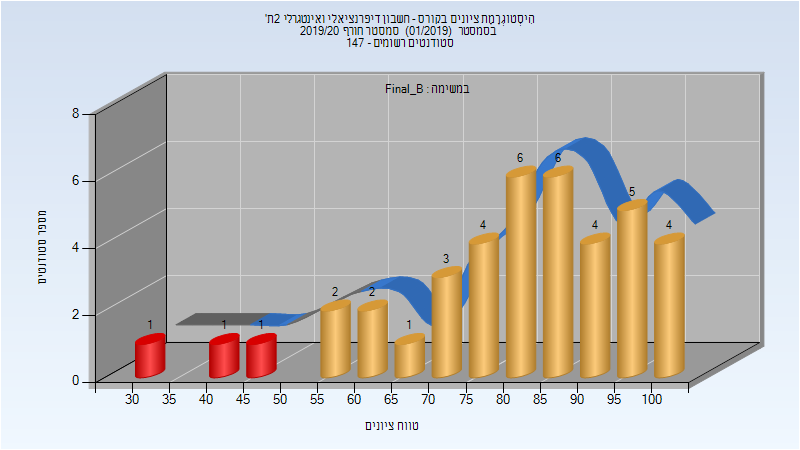
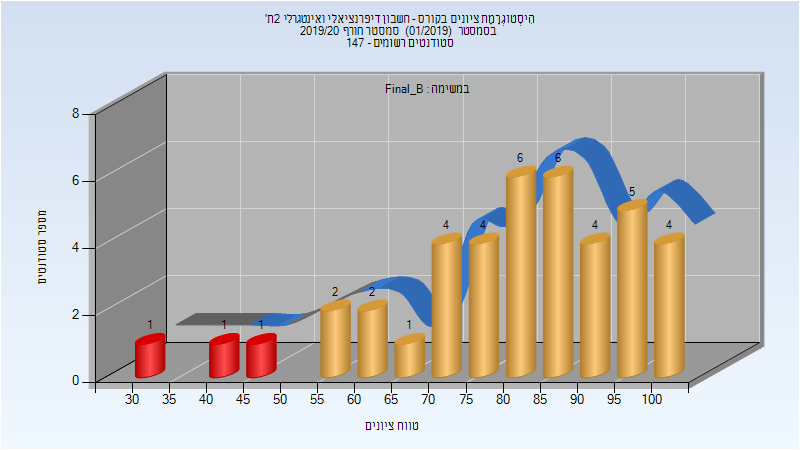
Deploy michael-maltsev/technion-histograms to github.com/michael-maltsev/technion-histograms.git:gh-pages

Changed region(s): [[0.5312, 0.4667, 0.6562, 0.6222], [0.5625, 0.6533, 0.5938, 0.6844]]

diff --git a/044252/index.html b/044252/index.html
@@ -889,13 +889,13 @@
 </thead>
 <tbody>
 <tr>
-<td>510</td>
-<td>405/105</td>
-<td>79</td>
-<td>25</td>
+<td>565</td>
+<td>512/53</td>
+<td>91</td>
+<td>2</td>
 <td>100</td>
-<td>72.535</td>
-<td>78</td>
+<td>78.634</td>
+<td>82</td>
 </tr>
 </tbody>
 </table>
@@ -919,6 +919,84 @@
 <tr>
 <td>הדר אלעד</td>
 <td>מתרגל - עם הרשאות מרצה אחראי</td>
+</tr>
+</tbody>
+</table>
+<h3>מבחן מועד א'</h3>
+<p><img src="201903/Exam_A.png" alt="201903 Exam_A" /></p>
+<table>
+<thead>
+<tr>
+<th>סטודנטים</th>
+<th>עברו/נכשלו</th>
+<th>אחוז עוברים</th>
+<th>ציון מינימלי</th>
+<th>ציון מקסימלי</th>
+<th>ממוצע</th>
+<th>חציון</th>
+</tr>
+</thead>
+<tbody>
+<tr>
+<td>28</td>
+<td>26/2</td>
+<td>93</td>
+<td>30</td>
+<td>100</td>
+<td>71.893</td>
+<td>70.5</td>
+</tr>
+</tbody>
+</table>
+<h3>סופי מועד א'</h3>
+<p><img src="201903/Final_A.png" alt="201903 Final_A" /></p>
+<table>
+<thead>
+<tr>
+<th>סטודנטים</th>
+<th>עברו/נכשלו</th>
+<th>אחוז עוברים</th>
+<th>ציון מינימלי</th>
+<th>ציון מקסימלי</th>
+<th>ממוצע</th>
+<th>חציון</th>
+</tr>
+</thead>
+<tbody>
+<tr>
+<td>28</td>
+<td>26/2</td>
+<td>93</td>
+<td>32</td>
+<td>100</td>
+<td>83.857</td>
+<td>85.5</td>
+</tr>
+</tbody>
+</table>
+<h3>סופי</h3>
+<p><img src="201903/Finals.png" alt="201903 Finals" /></p>
+<table>
+<thead>
+<tr>
+<th>סטודנטים</th>
+<th>עברו/נכשלו</th>
+<th>אחוז עוברים</th>
+<th>ציון מינימלי</th>
+<th>ציון מקסימלי</th>
+<th>ממוצע</th>
+<th>חציון</th>
+</tr>
+</thead>
+<tbody>
+<tr>
+<td>28</td>
+<td>26/2</td>
+<td>93</td>
+<td>32</td>
+<td>100</td>
+<td>83.857</td>
+<td>85.5</td>
 </tr>
 </tbody>
 </table>

diff --git a/104013/index.html b/104013/index.html
@@ -1961,13 +1961,13 @@
 </thead>
 <tbody>
 <tr>
-<td>40</td>
-<td>37/3</td>
-<td>92</td>
+<td>41</td>
+<td>38/3</td>
+<td>93</td>
 <td>32</td>
 <td>100</td>
-<td>80.425</td>
-<td>82.5</td>
+<td>80.268</td>
+<td>82</td>
 </tr>
 </tbody>
 </table>

diff --git a/044252/README.md b/044252/README.md
@@ -273,7 +273,7 @@
 
 | סטודנטים | עברו/נכשלו | אחוז עוברים | ציון מינימלי | ציון מקסימלי | ממוצע | חציון |
 | ---- | ---- | ---- | ---- | ---- | ---- | ---- |
-| 510 | 405/105 | 79 | 25 | 100 | 72.535 | 78 |
+| 565 | 512/53 | 91 | 2 | 100 | 78.634 | 82 |
 
 ## קיץ 2020
 
@@ -282,4 +282,28 @@
 | קוטינסקי שחר | מרצה - אחראי מקצוע |
 | אליהו עדי | מתרגל - עם הרשאות מרצה אחראי |
 | הדר אלעד | מתרגל - עם הרשאות מרצה אחראי |
+
+### מבחן מועד א'
+
+![201903 Exam_A](201903/Exam_A.png)
+
+| סטודנטים | עברו/נכשלו | אחוז עוברים | ציון מינימלי | ציון מקסימלי | ממוצע | חציון |
+| ---- | ---- | ---- | ---- | ---- | ---- | ---- |
+| 28 | 26/2 | 93 | 30 | 100 | 71.893 | 70.5 |
+
+### סופי מועד א'
+
+![201903 Final_A](201903/Final_A.png)
+
+| סטודנטים | עברו/נכשלו | אחוז עוברים | ציון מינימלי | ציון מקסימלי | ממוצע | חציון |
+| ---- | ---- | ---- | ---- | ---- | ---- | ---- |
+| 28 | 26/2 | 93 | 32 | 100 | 83.857 | 85.5 |
+
+### סופי
+
+![201903 Finals](201903/Finals.png)
+
+| סטודנטים | עברו/נכשלו | אחוז עוברים | ציון מינימלי | ציון מקסימלי | ממוצע | חציון |
+| ---- | ---- | ---- | ---- | ---- | ---- | ---- |
+| 28 | 26/2 | 93 | 32 | 100 | 83.857 | 85.5 |
 

diff --git a/104013/README.md b/104013/README.md
@@ -619,7 +619,7 @@
 
 | סטודנטים | עברו/נכשלו | אחוז עוברים | ציון מינימלי | ציון מקסימלי | ממוצע | חציון |
 | ---- | ---- | ---- | ---- | ---- | ---- | ---- |
-| 40 | 37/3 | 92 | 32 | 100 | 80.425 | 82.5 |
+| 41 | 38/3 | 93 | 32 | 100 | 80.268 | 82 |
 
 ### סופי
 
